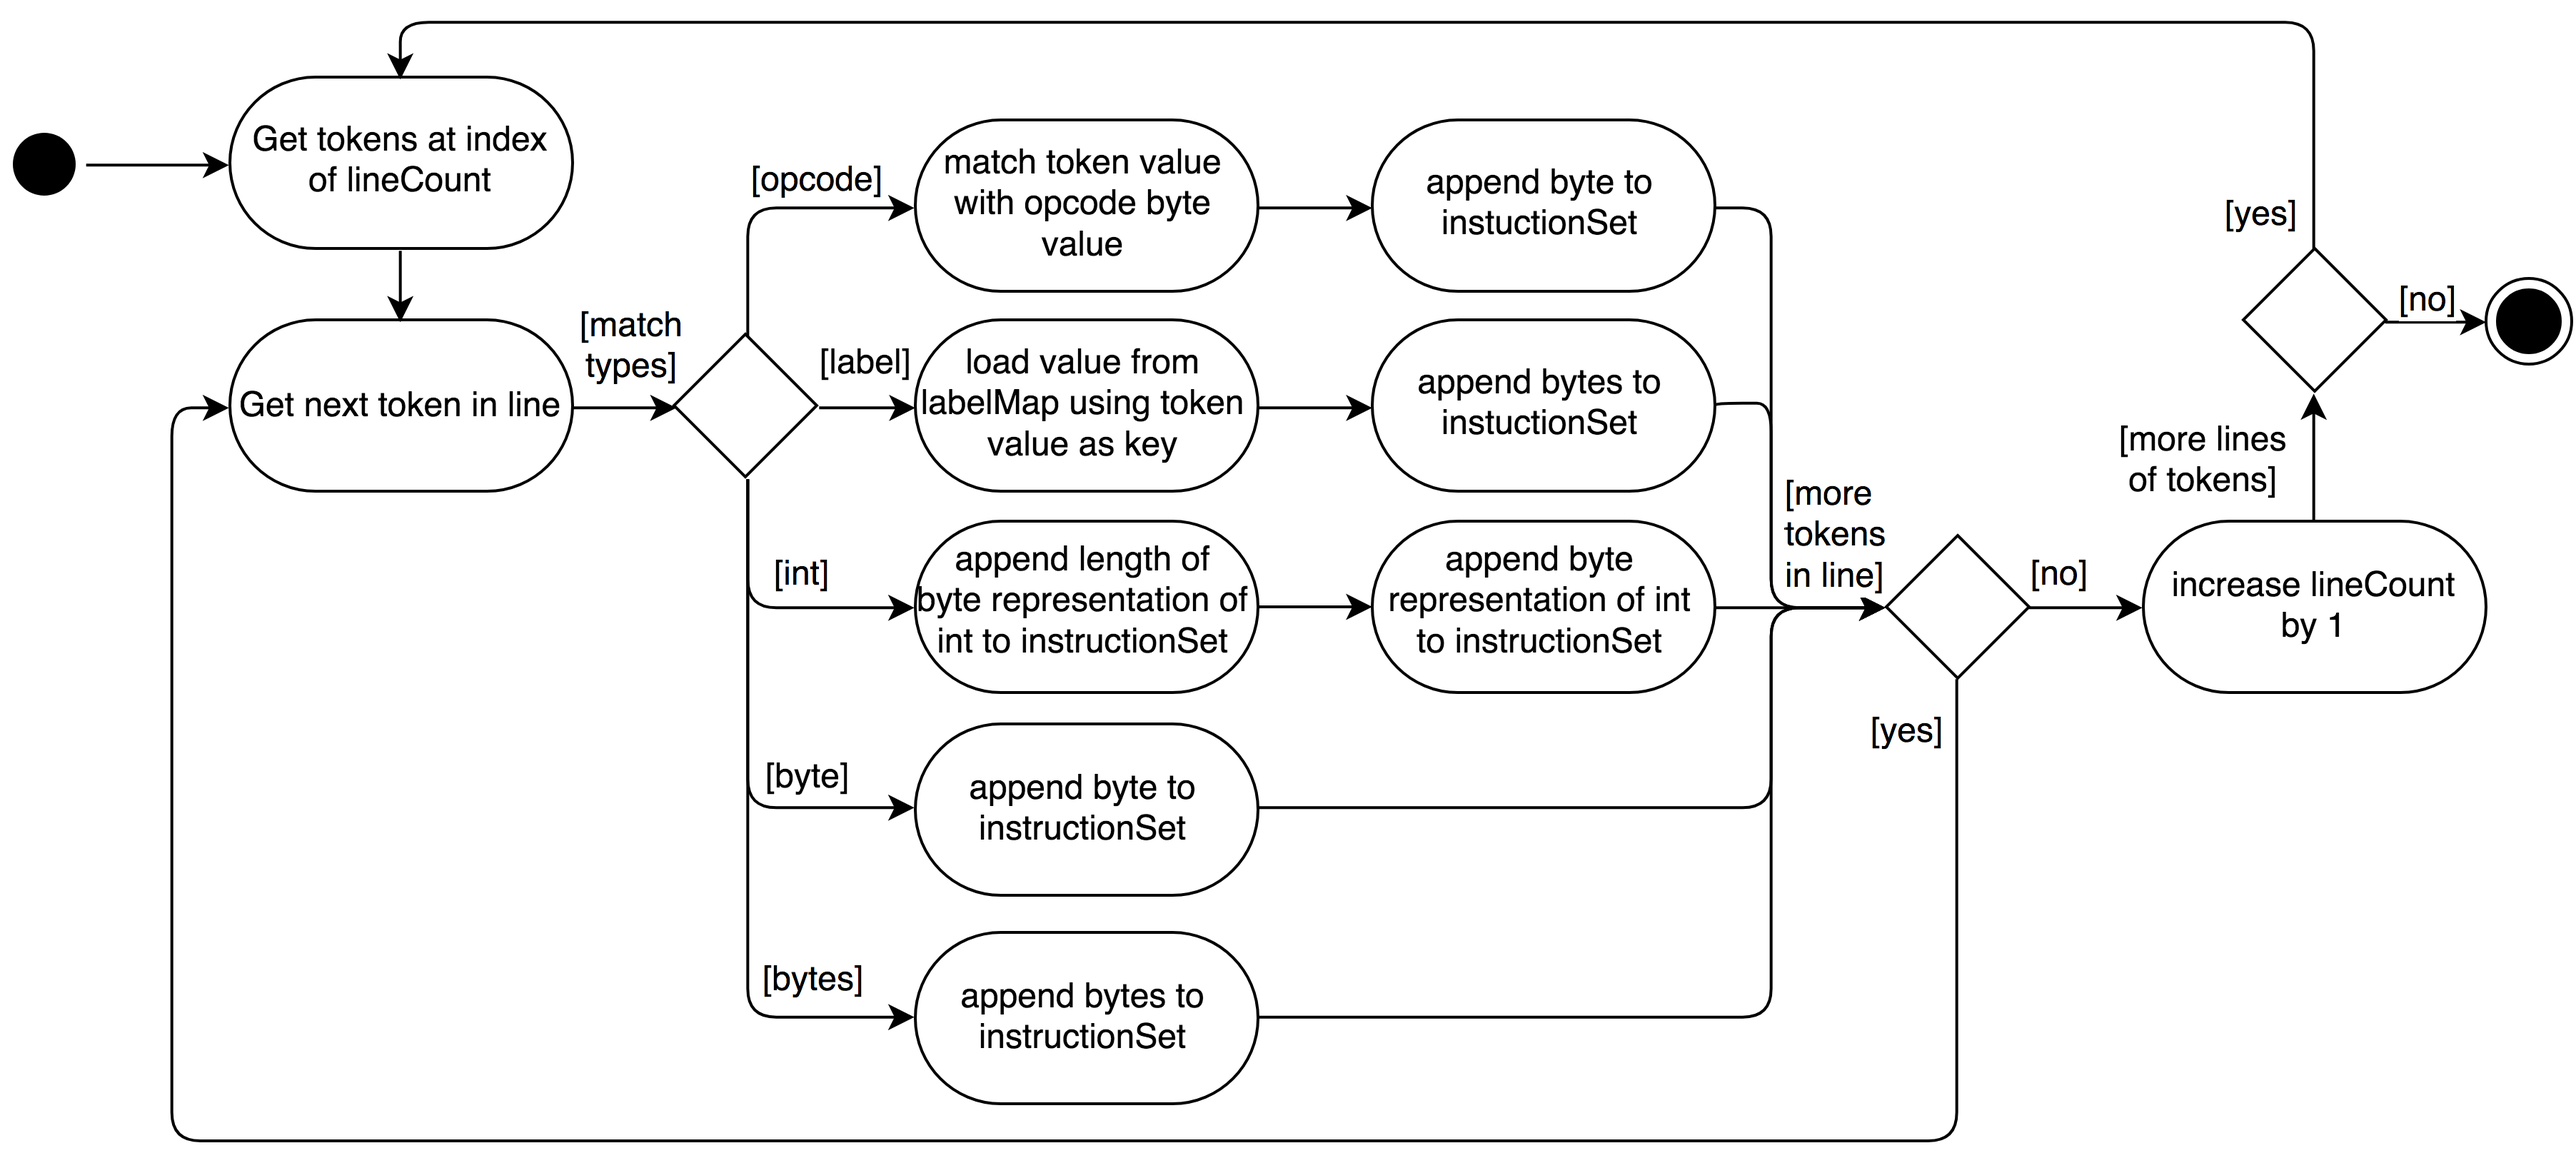
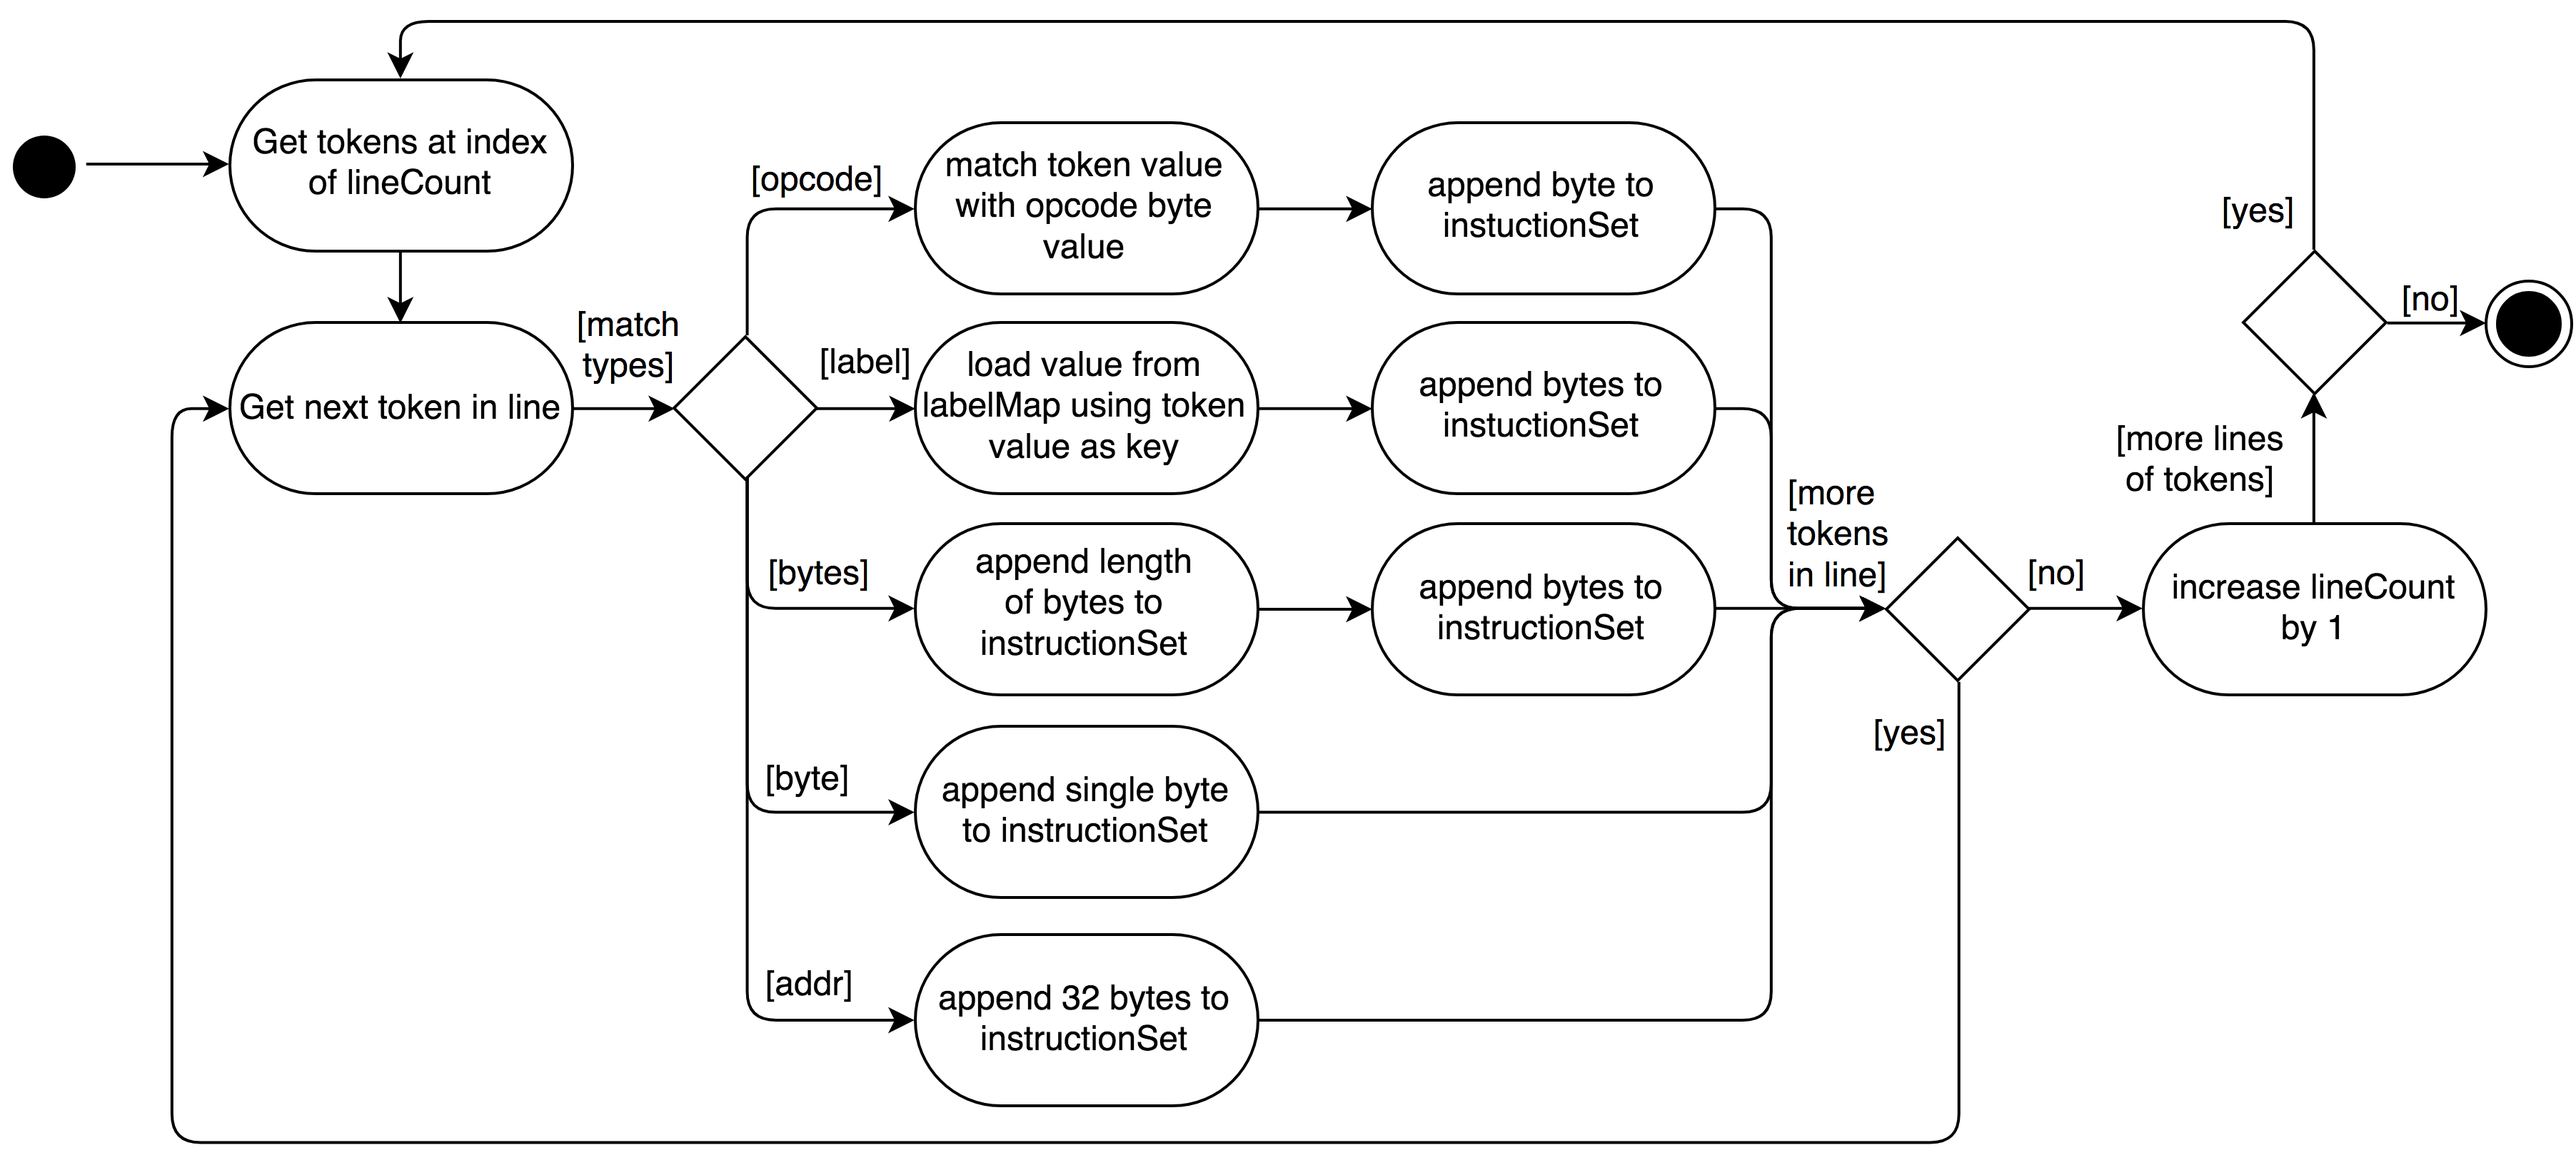
Updated parser section according to last refactorings

diff --git a/docs/thesis/TechnischerBericht/chapter/implementation.tex b/docs/thesis/TechnischerBericht/chapter/implementation.tex
@@ -395,7 +395,7 @@ The language the parser processes cannot be described as a high-level programmin
 \begin{tabular}[t]{ p{3cm} p{12.5cm}}
 \raggedright
 \textbf{Token struct and types} &
-Code snippet \ref{tokenstruct} shows the Token struct. The tokenType field can be \mintinline{go}{OPCODE} (Value: 0), \mintinline{go}{INT} (Value: 1), \mintinline{go}{BYTE} (Value: 2), \mintinline{go}{BYTES} (Value: 3), \mintinline{go}{LABEL} (Value: 4) which are all int constants. The value field contains the argument passed to the token. \\ \\
+Code snippet \ref{tokenstruct} shows the Token struct. The tokenType field can be \mintinline{go}{OPCODE} (Value: 0), \mintinline{go}{BYTES} (Value: 1), \mintinline{go}{BYTE} (Value: 2), \mintinline{go}{ADDR} (Value: 3), \mintinline{go}{LABEL} (Value: 4) which are all int constants. The value field contains the argument passed to the token. \\ \\
 \end{tabular}
 
 \begin{figure}[thp]%
@@ -483,7 +483,7 @@ Code snippet \ref{tokenset} shows the generated token set to the basic contract 
 \begin{tabular}[t]{ p{3cm} p{12.5cm}}
 \raggedright
 \textbf{Parse() function} &
-The \mintinline{go}{Parse()} function compiles the token set to \flqq Bazo Byte Code\frqq. Figure \ref{parsefunc} shows the the process of the function. The function iterates over all tokens in the token set and matches the different types. If the type is \mintinline{go}{OPCODE} the matching byte value is added to the instruction set. If the type is \mintinline{go}{LABEL} the value is loaded from the labelMap, which is the jump address. A special type is \mintinline{go}{INT}. If an opcode takes an int value as an argument the first byte of the value shows the length of the byte representation. That means, that the byte representation of the value must be prepended with the amount of bytes the byte representation of the int requires. \mintinline{go}{BYTE} and \mintinline{go}{BYTES} just append the value to the instruction set. 
+The \mintinline{go}{Parse()} function compiles the token set to \flqq Bazo Byte Code\frqq. Figure \ref{parsefunc} shows the the process of the function. The function iterates over all tokens in the token set and matches the different types. If the type is \mintinline{go}{OPCODE} the matching byte value is added to the instruction set. If the type is \mintinline{go}{LABEL} the value is loaded from the labelMap, which is the jump address. A special type is \mintinline{go}{BYTES}. If an opcode takes \mintinline{go}{BYTES} as an argument the first byte of the value shows the length of the byte representation. That means, that the byte representation of the value must be prepended with the amount of bytes. \mintinline{go}{BYTE} and  appends a single byte value to the instruction set. \mintinline{go}{ADDR} appends 32 bytes to the instruction set.
 \end{tabular}
 
 \begin{figure}[H]
@@ -536,7 +536,7 @@ The test coverage before the VM integration was 65\%. The updated test coverage 
 \textbf{VM} &
 The overall statement coverage is 81\%. Every component of the vm package has a test coverage over 79\%. The main component is the vm.go class. For every opcode at least one unit test has been made. Arithmetic opcodes are based on the big.Int implementation, which has been considered tested. This test coverage is influenced by the fuzz test described in Section \ref{fuzz_testing}. \\ \\
 \textbf{Parser} &
-The parser should be seen as a utility that is not part of the core project. For this reason, the necessity to test of this package was of low priority. Still a test coverage of 84\% could be achieved, because the package is small and the core class consists only of two main functions and a few helper methods. \\ \\
+The parser should be seen as a utility that is not part of the core project. For this reason, the necessity to test of this package was of low priority. Still a test coverage of 82\% could be achieved, because the package is small and the core class consists only of two main functions and a few helper methods. \\ \\
 \end{tabular}
  
 \subsection{Fuzz Testing} \label{fuzz_testing}
